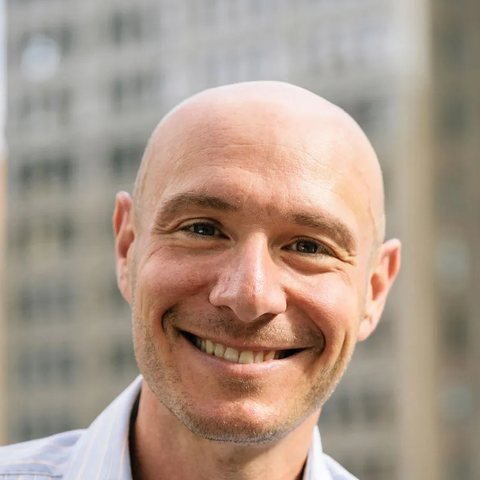
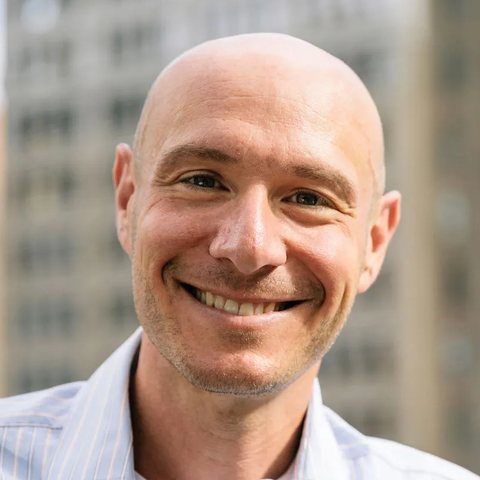
crop edit

diff --git a/index.html b/index.html
@@ -74,9 +74,9 @@
   --scrim-3:    .90;
   --scrim-band: .80;
   --photo:      grayscale(1) contrast(1.12);
-  /* team and advisor portraits: black and white, a lighter touch of
-     contrast than the big photographs so faces stay soft */
-  --portrait:   grayscale(1) contrast(1.06);
+  /* team and advisor portraits stay in colour; hovering one lays this
+     much of the accent red over it (see PORTRAIT HOVER) */
+  --tint:       .3;
   --edge-on-deep: rgba(22,32,46,.28);
 }
 
@@ -562,10 +562,23 @@ h2 {
   width: 100%; height: 100%;
   object-fit: cover;
   object-position: var(--pos, 50% 50%);
-  /* same treatment as the advisory board, so all portraits match */
-  filter: var(--portrait); transition: filter .35s ease;
 }
-@media (hover: hover) { .member:hover .member-photo img { filter: none; } }
+/* PORTRAIT HOVER, shared by the team and the advisory board. Photos show
+   in their natural colour; hovering a person, or tabbing to one of their
+   links, lays a light wash of the site red over the photo. Multiply keeps
+   the face's own light and shade showing through the tint. */
+.member-photo, .advisor-photo { isolation: isolate; }
+.member-photo::after, .advisor-photo::after {
+  content: ""; position: absolute; inset: 0; z-index: 1; pointer-events: none;
+  background: var(--accent); mix-blend-mode: multiply;
+  opacity: 0; transition: opacity .3s ease;
+}
+@media (hover: hover) {
+  .member:hover .member-photo::after,
+  .advisor:hover .advisor-photo::after { opacity: var(--tint); }
+}
+.member:focus-within .member-photo::after,
+.advisor:focus-within .advisor-photo::after { opacity: var(--tint); }
 .member-photo .initials { font-family: var(--font-display); font-size: 46px; color: var(--muted); line-height: 1; }
 .member-photo .ph { font-size: 12.5px; color: var(--muted); letter-spacing: .04em; }
 .member h3 { font-family: var(--font-display); font-weight: var(--display-weight); font-size: 27px; line-height: 1.15; }
@@ -579,6 +592,16 @@ h2 {
 .member .role { font-size: 19px; font-weight: 600; color: var(--body); margin: 8px 0 2px; }
 .member .role-sub { font-size: 14px; color: var(--muted); margin-bottom: 16px; }
 .member p { font-size: 16.5px; color: var(--body); line-height: 1.6; }
+/* About: the advisory board and the team share one grey band under the
+   opening photo. Instead of a second section's full top padding, a thin
+   rule across the column separates them. */
+.people-adv + .people-team { padding-top: 0; }
+.people-adv + .people-team > .wrap::before {
+  content: ""; display: block; border-top: 1px solid var(--line); margin-bottom: 88px;
+}
+@media (max-width: 940px) {
+  .people-adv + .people-team > .wrap::before { margin-bottom: 60px; }
+}
 .tag {
   display: inline-block; font-size: 11.5px; font-weight: 600; letter-spacing: .06em;
   color: var(--accent); border: 1px solid var(--accent); padding: 4px 9px; margin-bottom: 14px;
@@ -606,15 +629,11 @@ h2 {
 }
 /* on the grey band the empty square reads better in white */
 .section-alt .advisor-photo { background: var(--paper); }
-/* One treatment for every portrait (see --portrait), so photos taken
-   against an orange wall, an office and a forest read as one set.
-   Colour comes back on hover where there is a mouse. */
+/* natural colour; the red hover tint is under PORTRAIT HOVER (team) */
 .advisor-photo img {
   position: absolute; inset: 0; width: 100%; height: 100%;
   object-fit: cover; object-position: var(--pos, 50% 50%);
-  filter: var(--portrait); transition: filter .35s ease;
 }
-@media (hover: hover) { .advisor:hover .advisor-photo img { filter: none; } }
 /* shown only when a photo is missing or fails to load */
 .advisor-photo .initials { font-family: var(--font-display); font-size: 30px; color: var(--muted); line-height: 1; }
 .advisor h3 { font-family: var(--font-display); font-weight: var(--display-weight); font-size: 20px; line-height: 1.2; margin-bottom: 5px; }
@@ -1436,6 +1455,74 @@ footer .flag-mark { margin-bottom: 22px; }
     </div>
   </section>
 
+  <!-- PEOPLE. The advisory board and the team share one grey band right
+       under the opening photo, advisors first, so they are the first
+       thing you see. A thin rule inside the band separates the two.
+       ADVISORY BOARD, full: filled from ADVISORS in the script; the home
+       page shows a compact strip of the same list. -->
+  <section class="section section-alt people-adv">
+    <div class="wrap">
+      <h2 class="reveal">Our advisory board</h2>
+      <div class="advisors" data-advisors></div>
+    </div>
+  </section>
+
+  <section class="section section-alt people-team">
+    <div class="wrap">
+      <h2 class="reveal">Our team</h2>
+      <!-- --pos is object-position: horizontal then vertical. Only the axis
+           being cropped has any effect, which depends on the photo's shape:
+           a landscape photo crops left/right, a tall one crops top/bottom.
+           Head sizes are matched by supplying better-framed originals, not by
+           zooming, which softens small images and adds noise. -->
+      <!-- LinkedIn mark, defined once and referenced three times below. -->
+      <svg width="0" height="0" style="position:absolute" aria-hidden="true" focusable="false">
+        <symbol id="li-mark" viewBox="0 0 24 24">
+          <path d="M20.447 20.452h-3.554v-5.569c0-1.328-.027-3.037-1.852-3.037-1.853 0-2.136 1.445-2.136 2.939v5.667H9.351V9h3.414v1.561h.046c.477-.9 1.637-1.85 3.37-1.85 3.601 0 4.267 2.37 4.267 5.455v6.286zM5.337 7.433c-1.144 0-2.063-.926-2.063-2.065 0-1.138.92-2.063 2.063-2.063 1.14 0 2.064.925 2.064 2.063 0 1.139-.925 2.065-2.064 2.065zm1.782 13.019H3.555V9h3.564v11.452zM22.225 0H1.771C.792 0 0 .774 0 1.729v20.542C0 23.227.792 24 1.771 24h20.451C23.2 24 24 23.227 24 22.271V1.729C24 .774 23.2 0 22.225 0z"/>
+        </symbol>
+      </svg>
+
+      <div class="team">
+        <div class="member reveal">
+          <figure class="member-photo" style="--pos: 50% 50%;">
+            <img src="images/abi-olvera.jpg" alt="Abi Olvera">
+          </figure>
+          <div class="member-name">
+            <h3>Abi Olvera</h3>
+            <a class="li-link" href="https://www.linkedin.com/in/abiolvera/" target="_blank" rel="noopener noreferrer" aria-label="Abi Olvera on LinkedIn"><svg aria-hidden="true"><use href="#li-mark"/></svg></a>
+          </div>
+          <p class="role">Executive Director</p>
+          <p class="role-sub">Co-founder</p>
+          <p>Abi sets the strategy and direction for DC Abundance. She spent a decade as a U.S. diplomat before moving into AI research. She is a fellow at the Roots of Progress Institute and writes about the institutional frictions that make housing, clinics, and daycare scarce.</p>
+        </div>
+        <div class="member reveal reveal-2">
+          <figure class="member-photo" style="--pos: 50% 26%;">
+            <img src="images/tobias-amstutz.jpg" alt="Tobias Amstutz">
+          </figure>
+          <div class="member-name">
+            <h3>Tobias Amstutz</h3>
+            <a class="li-link" href="https://www.linkedin.com/in/tobias-toby-amstutz-62a606230" target="_blank" rel="noopener noreferrer" aria-label="Tobias Amstutz on LinkedIn"><svg aria-hidden="true"><use href="#li-mark"/></svg></a>
+          </div>
+          <p class="role">Programs Director</p>
+          <p class="role-sub">Co-founder</p>
+          <p>Tobias runs the day to day programming and organizes the events. He previously interned at the Niskanen Center, where he worked on abundance policy. He was also a fellow on Alex Bores' congressional campaign.</p>
+        </div>
+        <div class="member reveal reveal-3">
+          <figure class="member-photo" style="--pos: 52% 50%;">
+            <img src="images/allister-chang.webp" alt="Allister Chang">
+          </figure>
+          <div class="member-name">
+            <h3>Allister Chang</h3>
+            <a class="li-link" href="https://www.linkedin.com/in/allisterchang/" target="_blank" rel="noopener noreferrer" aria-label="Allister Chang on LinkedIn"><svg aria-hidden="true"><use href="#li-mark"/></svg></a>
+          </div>
+          <p class="role">Strategic Advisor</p>
+          <p class="role-sub">Co-founder</p>
+          <p>Allister helped DC Abundance get established as an organization and advises us on DC government. He represents Ward 2 on the DC State Board of Education, where he was the first Asian American elected. He previously ran Libraries Without Borders, and has been a fellow at Halcyon and a visiting researcher at the Global Public Policy Institute.</p>
+        </div>
+      </div>
+    </div>
+  </section>
+
   <section class="section">
     <div class="wrap">
       <h2 class="reveal">What we do</h2>
@@ -1555,92 +1642,6 @@ footer .flag-mark { margin-bottom: 22px; }
           </div>
         </li>
       </ul>
-    </div>
-  </section>
-
-  <!-- Writing club. Moved here from the Resources page in October 2026:
-       it is one of our engagement-building events, so it sits under the
-       list of event types. Text unchanged. -->
-  <section class="section section-alt">
-    <div class="wrap two-col">
-      <div class="reveal">
-        <div class="rule draw"></div>
-        <h2>About the writing club</h2>
-      </div>
-      <div class="reveal reveal-2">
-        <div class="prose">
-          <p>DC Abundance's monthly writing club is a dedicated block of time for people who want to make real progress on their writing. We reserve a space, you bring whatever you're working on, and everyone settles in to write alongside each other.</p>
-          <p>Projects don't need to be about abundance (though we'd ask that they not be working against it), so you'll find people drafting essays, policy memos, newsletters, fiction, and everything in between. The time is mostly heads-down and focused, but there's always room to step away and talk through an idea with someone who's thinking about something completely different.</p>
-          <p>Regulars have found that showing up each month makes it much easier to keep a project moving, and we'd love for you to join them.</p>
-        </div>
-        <div class="res-action"><a class="btn btn-fill js-signup" href="#">Join DC Abundance <span class="arrow">&rarr;</span></a></div>
-      </div>
-    </div>
-  </section>
-
-  <section class="section">
-    <div class="wrap">
-      <h2 class="reveal">Our team</h2>
-      <!-- --pos is object-position: horizontal then vertical. Only the axis
-           being cropped has any effect, which depends on the photo's shape:
-           a landscape photo crops left/right, a tall one crops top/bottom.
-           Head sizes are matched by supplying better-framed originals, not by
-           zooming, which softens small images and adds noise. -->
-      <!-- LinkedIn mark, defined once and referenced three times below. -->
-      <svg width="0" height="0" style="position:absolute" aria-hidden="true" focusable="false">
-        <symbol id="li-mark" viewBox="0 0 24 24">
-          <path d="M20.447 20.452h-3.554v-5.569c0-1.328-.027-3.037-1.852-3.037-1.853 0-2.136 1.445-2.136 2.939v5.667H9.351V9h3.414v1.561h.046c.477-.9 1.637-1.85 3.37-1.85 3.601 0 4.267 2.37 4.267 5.455v6.286zM5.337 7.433c-1.144 0-2.063-.926-2.063-2.065 0-1.138.92-2.063 2.063-2.063 1.14 0 2.064.925 2.064 2.063 0 1.139-.925 2.065-2.064 2.065zm1.782 13.019H3.555V9h3.564v11.452zM22.225 0H1.771C.792 0 0 .774 0 1.729v20.542C0 23.227.792 24 1.771 24h20.451C23.2 24 24 23.227 24 22.271V1.729C24 .774 23.2 0 22.225 0z"/>
-        </symbol>
-      </svg>
-
-      <div class="team">
-        <div class="member reveal">
-          <figure class="member-photo" style="--pos: 50% 50%;">
-            <img src="images/abi-olvera.jpg" alt="Abi Olvera">
-          </figure>
-          <div class="member-name">
-            <h3>Abi Olvera</h3>
-            <a class="li-link" href="https://www.linkedin.com/in/abiolvera/" target="_blank" rel="noopener noreferrer" aria-label="Abi Olvera on LinkedIn"><svg aria-hidden="true"><use href="#li-mark"/></svg></a>
-          </div>
-          <p class="role">Executive Director</p>
-          <p class="role-sub">Co-founder</p>
-          <p>Abi sets the strategy and direction for DC Abundance. She spent a decade as a U.S. diplomat before moving into AI research. She is a fellow at the Roots of Progress Institute and writes about the institutional frictions that make housing, clinics, and daycare scarce.</p>
-        </div>
-        <div class="member reveal reveal-2">
-          <figure class="member-photo" style="--pos: 50% 26%;">
-            <img src="images/tobias-amstutz.jpg" alt="Tobias Amstutz">
-          </figure>
-          <div class="member-name">
-            <h3>Tobias Amstutz</h3>
-            <a class="li-link" href="https://www.linkedin.com/in/tobias-toby-amstutz-62a606230" target="_blank" rel="noopener noreferrer" aria-label="Tobias Amstutz on LinkedIn"><svg aria-hidden="true"><use href="#li-mark"/></svg></a>
-          </div>
-          <p class="role">Programs Director</p>
-          <p class="role-sub">Co-founder</p>
-          <p>Tobias runs the day to day programming and organizes the events. He previously interned at the Niskanen Center, where he worked on abundance policy. He was also a fellow on Alex Bores' congressional campaign.</p>
-        </div>
-        <div class="member reveal reveal-3">
-          <figure class="member-photo" style="--pos: 52% 50%;">
-            <img src="images/allister-chang.webp" alt="Allister Chang">
-          </figure>
-          <div class="member-name">
-            <h3>Allister Chang</h3>
-            <a class="li-link" href="https://www.linkedin.com/in/allisterchang/" target="_blank" rel="noopener noreferrer" aria-label="Allister Chang on LinkedIn"><svg aria-hidden="true"><use href="#li-mark"/></svg></a>
-          </div>
-          <p class="role">Strategic Advisor</p>
-          <p class="role-sub">Co-founder</p>
-          <p>Allister helped DC Abundance get established as an organization and advises us on DC government. He represents Ward 2 on the DC State Board of Education, where he was the first Asian American elected. He previously ran Libraries Without Borders, and has been a fellow at Halcyon and a visiting researcher at the Global Public Policy Institute.</p>
-        </div>
-      </div>
-    </div>
-  </section>
-
-  <!-- ADVISORY BOARD, full. Filled from ADVISORS in the script; the home
-       page shows a compact strip of the same list. Staff first, advisors
-       after, which is the usual order on policy-organisation sites. -->
-  <section class="section section-alt">
-    <div class="wrap">
-      <h2 class="reveal">Our advisory board</h2>
-      <div class="advisors" data-advisors></div>
     </div>
   </section>
 
@@ -1988,9 +1989,6 @@ footer .flag-mark { margin-bottom: 22px; }
     </div>
   </section>
 
-  <!-- The writing club section moved to the About page, under
-       "Types of events", in October 2026. -->
-
 </div>
 
 <!-- ============================================================
@@ -2281,12 +2279,12 @@ var EVENTS = [
    instead of a broken image.
    ------------------------------------------------------------ */
 var ADVISORS = [
-  { name: "Jennifer Pahlka",   title: "Co-founder, Board Chair, and CEO",  org: "Recoding America",            url: "https://www.recodingamerica.us/",                     photo: "images/advisors/jennifer-pahlka.jpg" },
+  { name: "Jennifer Pahlka",   title: "Co-founder, Board Chair, and CEO",  org: "Recoding America",            url: "https://recodingamerica.org/people/jennifer-pahlka", photo: "images/advisors/jennifer-pahlka.jpg" },
   { name: "Jason Crawford",    title: "Founder and President",             org: "Roots of Progress Institute", url: "https://rootsofprogress.org/member/jason-crawford/", photo: "images/advisors/jason-crawford.jpg" },
   { name: "Will Poff-Webster", title: "Director of Infrastructure Policy", org: "Institute for Progress",      url: "https://ifp.org/author/will-poff-webster/",          photo: "images/advisors/will-poff-webster.jpg" },
   { name: "Misha Chellam",     title: "Founder",                           org: "Abundance Network",           url: "https://www.abundancenetwork.com/team/",             photo: "images/advisors/misha-chellam.jpg" },
   { name: "Matthew Meyers",    title: "Abundance Coordinator",             org: "Niskanen Center",             url: "https://www.niskanencenter.org/author/mmeyers",      photo: "images/advisors/matthew-meyers.jpg" },
-  { name: "Derek Kaufman",     title: "Founder and CEO",                   org: "Inclusive Abundance",         url: "https://inclusiveabundance.org/",                    photo: "images/advisors/derek-kaufman.jpg" }
+  { name: "Derek Kaufman",     title: "Founder and CEO",                   org: "Inclusive Abundance",         url: "https://www.inclusiveabundance.org/about-ia/our-team", photo: "images/advisors/derek-kaufman.jpg" }
 ];
 
 (function buildAdvisors() {
